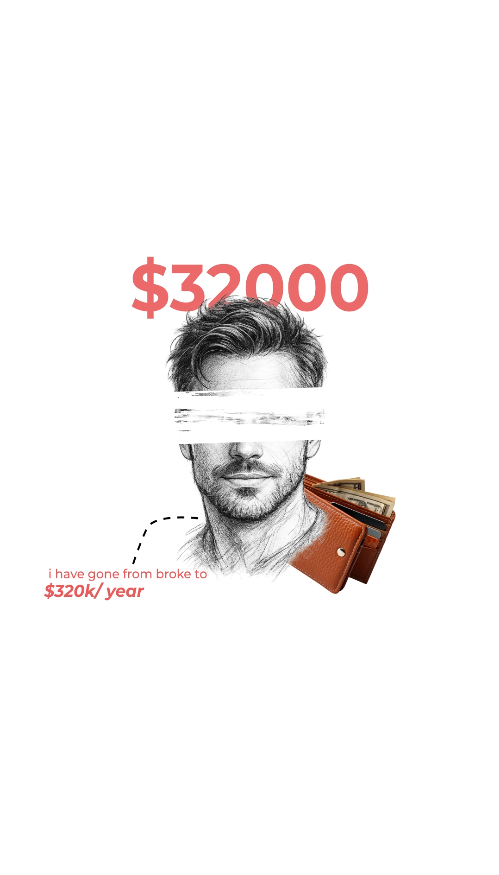
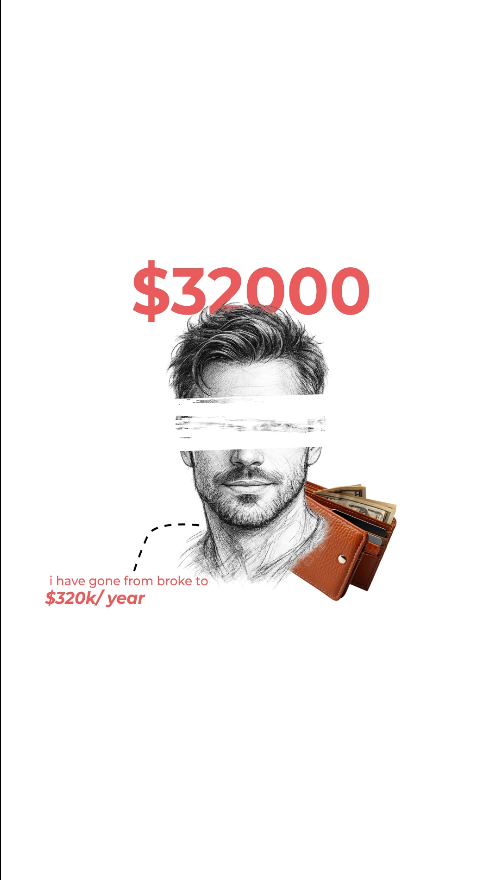
404

Changed region(s): [[0.0902, 0.2777, 0.8116, 0.7097], [0.6613, 0.2777, 0.7214, 0.3703]]

diff --git a/src/index.css b/src/index.css
@@ -20,21 +20,57 @@
 		display: none;
 	}
 
-	body,
-	p {
-		font-family: 'Poppins', sans-serif;
-	}
+body,
+p {
+	font-family: 'Poppins', sans-serif;
+}
 
 	h1,
 	h2,
 	h3,
 	h4,
 	h5,
-	h6 {
+h6 {
 				font-family: 'Bricolage Grotesque', 'sans-serif';
 
 	}
 }
+
+.not-found-page {
+	align-items: center;
+	background: #021723;
+	color: #f7f5f2;
+	display: flex;
+	isolation: isolate;
+	justify-content: center;
+	min-height: 100svh;
+	overflow: hidden;
+	padding: 2rem 1.25rem;
+	position: relative;
+	text-align: center;
+}
+
+.not-found-page__content { max-width: 43rem; position: relative; z-index: 2; }
+.not-found-page__eyebrow { align-items: center; color: #76b5d1; display: flex; font-size: 0.72rem; font-weight: 600; gap: 0.6rem; justify-content: center; letter-spacing: 0.1em; margin: 0; text-transform: uppercase; }
+.not-found-page__eyebrow span { animation: not-found-pulse 1.8s ease-in-out infinite; background: #76b5d1; border-radius: 999px; box-shadow: 0 0 1rem #76b5d1; height: 0.5rem; width: 0.5rem; }
+.not-found-page__number { align-items: center; display: flex; font-family: 'Bricolage Grotesque', sans-serif; font-size: clamp(8rem, 28vw, 17rem); font-weight: 800; justify-content: center; letter-spacing: -0.1em; line-height: 0.78; margin: clamp(1.2rem, 3vw, 2rem) 0 1.8rem; }
+.not-found-page__number > span { animation: not-found-number-float 5s ease-in-out infinite; text-shadow: 0.18rem 0.22rem 0 #0d5b84; }
+.not-found-page__number > span:last-child { animation-delay: -2.4s; }
+.not-found-page__zero { align-items: center; animation-delay: -1.2s !important; background: radial-gradient(circle at 32% 28%, #92c9e0, #2e6b8b 44%, #062033 70%); border: clamp(0.5rem, 1.2vw, 0.8rem) solid #76b5d1; border-radius: 50%; box-shadow: inset 0 0 2rem #021723, 0 0 2.5rem #76b5d1aa; display: inline-flex; height: 0.72em; justify-content: center; margin: 0 0.03em; position: relative; width: 0.72em; }
+.not-found-page__zero::after { border: 1px solid #f7f5f255; border-radius: inherit; content: ''; inset: 12%; position: absolute; }
+.not-found-page__zero i { animation: not-found-orbit 4s linear infinite; background: #f7f5f2; border-radius: 50%; box-shadow: 0 0 0.75rem #fff; height: 0.055em; position: absolute; transform-origin: 0.26em 0.26em; width: 0.055em; }
+.not-found-page__zero i:nth-child(2) { animation-delay: -1.33s; }.not-found-page__zero i:nth-child(3) { animation-delay: -2.66s; }
+.not-found-page h1 { font-size: clamp(2.35rem, 7vw, 5.4rem); letter-spacing: -0.06em; line-height: 0.92; margin: 0; }.not-found-page h1 span { color: #76b5d1; }
+.not-found-page__copy { color: #f7f5f2cc; font-size: clamp(0.88rem, 2vw, 1.05rem); line-height: 1.7; margin: 1rem auto 1rem; max-width: 32rem; }
+.not-found-page__button { align-items: center; background: #76b5d1; box-shadow: 0.3rem 0.3rem 0 #0d5b84; color: #021723; display: inline-flex; font-size: 0.85rem; font-weight: 700; gap: 0.8rem; letter-spacing: 0.04em; padding: 0.95rem 1.25rem; text-decoration: none; transition: transform 220ms ease, box-shadow 220ms ease; }.not-found-page__button:hover { box-shadow: 0.1rem 0.1rem 0 #0d5b84; transform: translate(0.2rem, 0.2rem); }.not-found-page__button svg { fill: none; height: 1.2rem; stroke: currentColor; stroke-linecap: round; stroke-linejoin: round; stroke-width: 2; width: 1.2rem; }
+.not-found-page__footer { bottom: 0.6rem; color: #f7f5f299; font-size: 0.65rem; font-weight: 600; left: 50%; letter-spacing: 0.16em; margin: 0; position: absolute; text-transform: uppercase; transform: translateX(-50%); white-space: nowrap; z-index: 2; }
+.not-found-page__aurora { border-radius: 50%; filter: blur(4rem); opacity: 0.36; position: absolute; z-index: -1; }.not-found-page__aurora--one { animation: not-found-aurora-one 13s ease-in-out infinite; background: #0d5b84; height: 30rem; left: -13rem; top: -10rem; width: 30rem; }.not-found-page__aurora--two { animation: not-found-aurora-two 16s ease-in-out infinite; background: #76b5d1; bottom: -16rem; height: 34rem; right: -12rem; width: 34rem; }.not-found-page__grid { background-image: linear-gradient(#76b5d112 1px, transparent 1px), linear-gradient(90deg, #76b5d112 1px, transparent 1px); background-size: 2.8rem 2.8rem; inset: 0; mask-image: radial-gradient(circle at center, black, transparent 75%); position: absolute; z-index: -1; }
+
+@keyframes not-found-pulse { 50% { opacity: 0.35; transform: scale(0.65); } }
+@keyframes not-found-number-float { 50% { transform: translateY(-0.07em); } }
+@keyframes not-found-orbit { from { transform: rotate(0deg) translateX(0.26em) rotate(0deg); } to { transform: rotate(360deg) translateX(0.26em) rotate(-360deg); } }
+@keyframes not-found-aurora-one { 50% { transform: translate(11rem, 8rem) scale(1.2); } }
+@keyframes not-found-aurora-two { 50% { transform: translate(-12rem, -7rem) scale(0.8); } }
 
 @keyframes hero-marquee-scroll {
 	from {
@@ -139,6 +175,53 @@
 	direction: rtl;
 }
 
+@keyframes about-aurora-drift {
+	0%, 100% { transform: translate3d(0, 0, 0) scale(1); }
+	50% { transform: translate3d(9rem, 7rem, 0) scale(1.18); }
+}
+
+@keyframes about-glow-drift {
+	0%, 100% { transform: translate3d(0, 0, 0) scale(1.05); }
+	50% { transform: translate3d(-8rem, -9rem, 0) scale(0.86); }
+}
+
+@keyframes about-orbit-drift {
+	0% { transform: translateX(-50%) rotate(0deg) scale(0.94); }
+	50% { transform: translateX(-50%) rotate(180deg) scale(1.12); }
+	100% { transform: translateX(-50%) rotate(360deg) scale(0.94); }
+}
+
+@keyframes about-grid-drift {
+	from { background-position: 0 0; }
+	to { background-position: 0 96px; }
+}
+
+@keyframes about-spark-float {
+	0%, 100% { opacity: 0.18; transform: translateY(0) scale(0.7); }
+	50% { opacity: 1; transform: translateY(-2.25rem) scale(1.35); }
+}
+
+.about-background-aurora { animation: about-aurora-drift 17s ease-in-out infinite; }
+.about-background-glow { animation: about-glow-drift 20s ease-in-out infinite; }
+.about-background-orbit { animation: about-orbit-drift 34s linear infinite; }
+.about-background-grid { animation: about-grid-drift 12s linear infinite; }
+.about-background-spark { animation: about-spark-float 4.5s ease-in-out infinite; }
+.about-background-spark--two { animation-delay: -1.6s; }
+.about-background-spark--three { animation-delay: -3.1s; }
+
+/* On a one-column mobile layout, keep reel cards in a single, calm reveal motion. */
+@media (max-width: 767px) {
+	.reels-showcase .scroll-reveal,
+	.motion-showcase .scroll-reveal {
+		--reveal-x: 0;
+		--reveal-y: 1.25rem;
+		--reveal-scale: 1;
+		--reveal-rotate: 0deg;
+		--reveal-blur: 0px;
+		transition-duration: 420ms;
+	}
+}
+
 .scroll-reveal {
 	opacity: 0;
 	translate: var(--reveal-x, 0) var(--reveal-y, 2.25rem);
@@ -179,6 +262,21 @@
 	.education-orbit-reverse,
 	.education-particle {
 		animation-play-state: paused;
+	}
+
+	.about-background-aurora,
+	.about-background-glow,
+	.about-background-orbit,
+	.about-background-grid,
+	.about-background-spark {
+		animation-play-state: paused;
+	}
+
+	.not-found-page *,
+	.not-found-page *::before,
+	.not-found-page *::after {
+		animation-play-state: paused !important;
+		transition: none !important;
 	}
 
 	.scroll-reveal {

diff --git a/src/about.jsx b/src/about.jsx
@@ -151,10 +151,13 @@ export default function About() {
   return (
     <section className="no-tracking relative w-full overflow-hidden bg-[#021723] text-[#f7f5f2]" aria-labelledby="about-title">
       <div className="pointer-events-none absolute inset-0 overflow-hidden" aria-hidden="true">
-        <div className="absolute -left-24 top-1/4 h-72 w-72 rounded-full bg-[#76b5d1]/15 blur-3xl motion-safe:animate-pulse" />
-        <div className="absolute -right-32 bottom-0 h-96 w-96 rounded-full bg-[#031b2a]/20 blur-3xl motion-safe:animate-[pulse_9s_ease-in-out_infinite]" />
-        <div className="absolute left-1/2 top-1/2 h-[38rem] w-[38rem] -translate-x-1/2 -translate-y-1/2 rounded-full border border-[#76b5d1]/10 bg-[conic-gradient(from_90deg,transparent,#76b5d1/10,transparent_35%)] blur-2xl motion-safe:animate-[spin_32s_linear_infinite]" />
-        <div className="absolute inset-0 bg-[repeating-linear-gradient(112deg,transparent_0_7px,rgba(255,255,255,0.025)_8px_9px)]" />
+        <div className="about-background-aurora absolute -left-[16rem] top-[8%] h-[34rem] w-[34rem] rounded-full bg-[#76b5d1]/20 blur-3xl" />
+        <div className="about-background-glow absolute -right-[18rem] bottom-[4%] h-[38rem] w-[38rem] rounded-full bg-[#0d5b84]/25 blur-3xl" />
+        <div className="about-background-orbit absolute left-1/2 top-[32rem] h-[38rem] w-[38rem] -translate-x-1/2 rounded-full border border-[#76b5d1]/15 bg-[conic-gradient(from_90deg,transparent,#76b5d1/15,transparent_35%)] blur-2xl" />
+        <div className="about-background-grid absolute inset-0 bg-[repeating-linear-gradient(112deg,transparent_0_7px,rgba(255,255,255,0.025)_8px_9px)]" />
+        <span className="about-background-spark about-background-spark--one absolute left-[14%] top-[18%] h-1.5 w-1.5 rounded-full bg-[#f7f5f2] shadow-[0_0_18px_#76b5d1]" />
+        <span className="about-background-spark about-background-spark--two absolute right-[16%] top-[48%] h-2 w-2 rounded-full bg-[#76b5d1] shadow-[0_0_22px_#76b5d1]" />
+        <span className="about-background-spark about-background-spark--three absolute bottom-[13%] left-[38%] h-1 w-1 rounded-full bg-[#f7f5f2] shadow-[0_0_16px_#f7f5f2]" />
       </div>
       <div className="relative mx-auto grid max-w-[1500px] grid-cols-1 gap-10 px-5 py-[clamp(4rem,4vw,9rem)] sm:px-10 lg:grid-cols-[2fr_3fr] lg:gap-14 lg:px-[4vw]">
         <div className="group relative mx-auto min-h-[22rem] w-full max-w-[25rem] self-center overflow-hidden rounded-[1.4rem] border-2 border-[#f7f5f2] bg-[#062033] sm:min-h-[30rem] lg:max-w-none lg:min-h-[clamp(22rem,38vw,35rem)]" aria-label="Prince Rakholiya creative editor">
@@ -347,7 +350,7 @@ export default function About() {
           </div>
         </div>
 
-        <div className="grid grid-cols-1 gap-10 md:grid-cols-2 mx-auto lg:max-w-[900px] w-full max-w-[300px] lg:grid-cols-3">
+        <div className="reels-showcase mx-auto grid w-full max-w-[20rem] grid-cols-1 gap-7 md:max-w-none md:grid-cols-2 md:gap-10 lg:max-w-[900px] lg:grid-cols-3">
           <article className="group overflow-hidden rounded-[1.25rem] border border-[#f7f5f2]/20 bg-[#021723] shadow-[4px_5px_0_#2e6b8b]">
             <div className="relative aspect-[9/16] overflow-hidden bg-[#021723]">
               <ReelPlayer src={socialReelOne} poster={reelCoverOne} label="Social media reel one" />
@@ -399,7 +402,7 @@ export default function About() {
           </div>
         </div>
 
-        <div className="grid grid-cols-1 gap-10 md:grid-cols-2 lg:grid-cols-3 mx-auto w-full max-w-[300px] lg:max-w-[900px]">
+        <div className="motion-showcase mx-auto grid w-full max-w-[20rem] grid-cols-1 gap-7 md:max-w-none md:grid-cols-2 md:gap-10 lg:max-w-[900px] lg:grid-cols-3">
           <article className="group overflow-hidden rounded-[1.25rem] border border-[#76b5d1]/40 bg-[#041d2d] shadow-[4px_5px_0_#2e6b8b]">
             <div className="relative aspect-[9/16] overflow-hidden bg-[#062033]">
               <ReelPlayer src={motionReelOne} poster={motionCoverOne} label="Motion graphics video one" />

diff --git a/src/not-found.jsx b/src/not-found.jsx
@@ -1,0 +1,30 @@
+import React from 'react'
+
+export default function NotFound() {
+  return (
+    <main className="not-found-page" aria-labelledby="not-found-title">
+      <div className="not-found-page__aurora not-found-page__aurora--one" aria-hidden="true" />
+      <div className="not-found-page__aurora not-found-page__aurora--two" aria-hidden="true" />
+      <div className="not-found-page__grid" aria-hidden="true" />
+
+      <section className="not-found-page__content">
+        <p className="not-found-page__eyebrow"><span /> Error 404</p>
+        <div className="not-found-page__number" aria-hidden="true">
+          <span>4</span>
+          <span className="not-found-page__zero">
+            <i /><i /><i />
+          </span>
+          <span>4</span>
+        </div>
+        <h1 id="not-found-title">This frame is missing<span>.</span></h1>
+        <p className="not-found-page__copy">The page you&apos;re looking for may have moved, been removed, or never existed.</p>
+        <a className="not-found-page__button" href="/">
+          Back to home
+          <svg viewBox="0 0 24 24" aria-hidden="true"><path d="M5 12h14M13 6l6 6-6 6" /></svg>
+        </a>
+      </section>
+
+      <p className="not-found-page__footer">PR — Creative Video Editor</p>
+    </main>
+  )
+}

diff --git a/src/hero.jsx b/src/hero.jsx
@@ -7,7 +7,7 @@ export default function Hero() {
           <div className="hero-marquee__track flex w-max items-center">
             <div className="hero-marquee__group flex shrink-0 items-center" aria-hidden="true">
               <span>Video Editing</span><i>✦</i>
-              <span>Motion Design</span><i>✦</i>
+              <span>Motion Graphics</span><i>✦</i>
               <span>Visual Effects</span><i>✦</i>
               <span>Reels</span><i>✦</i>
               <span>Commercials</span><i>✦</i>
@@ -16,7 +16,7 @@ export default function Hero() {
             </div>
             <div className="hero-marquee__group flex shrink-0 items-center" aria-hidden="true">
               <span>Video Editing</span><i>✦</i>
-              <span>Motion Design</span><i>✦</i>
+              <span>Motion Graphics</span><i>✦</i>
               <span>Visual Effects</span><i>✦</i>
               <span>Reels</span><i>✦</i>
               <span>Commercials</span><i>✦</i>

diff --git a/src/index.js b/src/index.js
@@ -5,13 +5,18 @@ import Hero from './hero';
 import About from './about';
 import Footer from './footer';
 import ScrollReveal from './scroll-reveal';
+import NotFound from './not-found';
 
 const root = ReactDOM.createRoot(document.getElementById('root'));
+const isHomePage = window.location.pathname === '/';
+
 root.render(
-<>
-<Hero/>
-<About/>
-<Footer/>
-<ScrollReveal/>
-</>
+isHomePage ? (
+  <>
+    <Hero/>
+    <About/>
+    <Footer/>
+    <ScrollReveal/>
+  </>
+) : <NotFound />
 );
